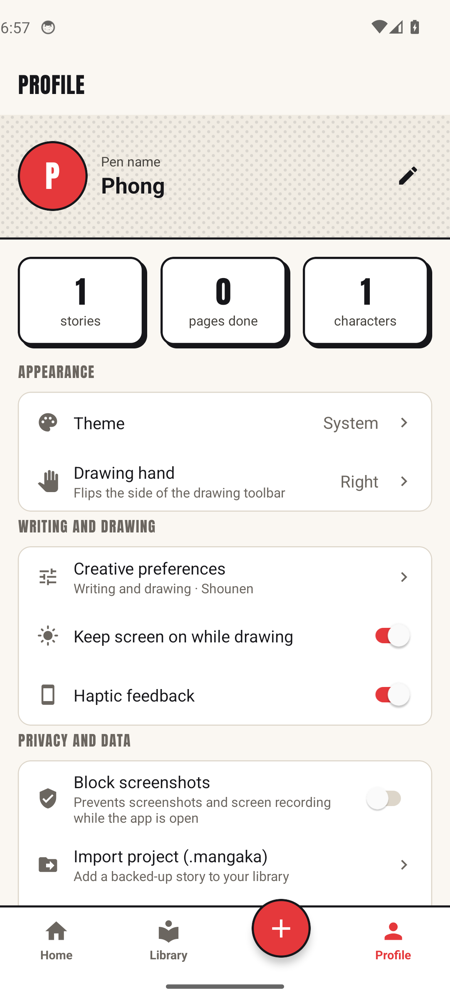
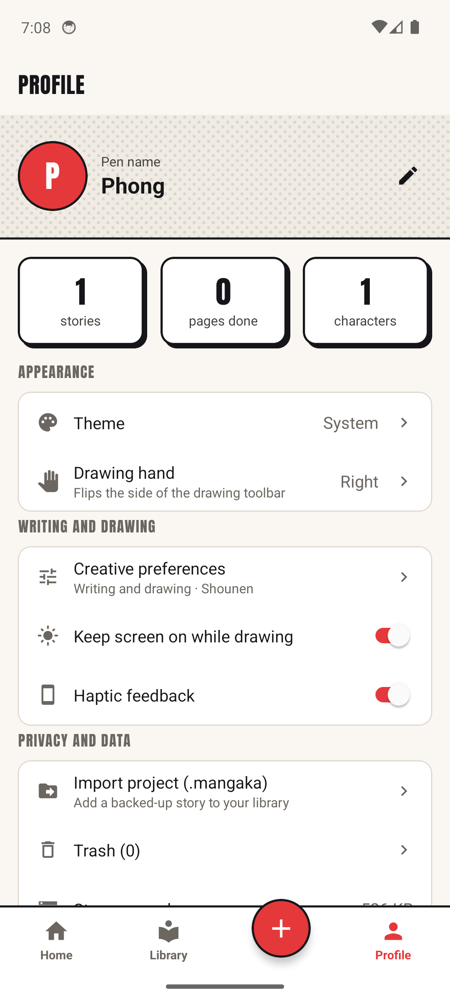
Remove the screenshot blocking toggle
Screen capture protection is no longer a setting: release builds always
enable it and dev builds never do. Docs and the Profile screenshot are
updated to match.

diff --git a/src/features/profile/ProfileScreen.tsx b/src/features/profile/ProfileScreen.tsx
@@ -13,7 +13,6 @@ import {
   Info,
   Palette,
   Pencil,
-  ShieldCheck,
   SlidersHorizontal,
   Smartphone,
   Sun,
@@ -52,7 +51,6 @@ export function ProfileScreen() {
   const handedness = useSettings(s => s.handedness);
   const keepAwake = useSettings(s => s.keepAwakeWhileDrawing);
   const haptics = useSettings(s => s.haptics);
-  const preventCapture = useSettings(s => s.preventCapture);
   const role = useSettings(s => s.role);
   const defaultStyle = useSettings(s => s.defaultStyle);
   const set = useSettings(s => s.set);
@@ -202,13 +200,6 @@ export function ProfileScreen() {
         </Section>
 
         <Section title="Privacy and data">
-          <SwitchRow
-            icon={ShieldCheck}
-            title="Block screenshots"
-            subtitle="Prevents screenshots and screen recording while the app is open"
-            value={preventCapture}
-            onValueChange={value => set({ preventCapture: value })}
-          />
           <ListItem
             icon={FolderInput}
             title={`Import project (.${ARCHIVE_EXTENSION})`}

diff --git a/src/app/AppRoot.tsx b/src/app/AppRoot.tsx
@@ -8,19 +8,13 @@ import { loadFonts } from '../engine/fonts';
 import { ensureDirs } from '../lib/files';
 import { setSecureScreen } from '../lib/screen';
 import { flushPendingWrites } from '../lib/storage';
-import { useSettings } from '../store/useSettings';
 import { useStory } from '../store/useStory';
 import { useTheme } from '../theme';
 import { RootNavigator } from './navigation';
 
 function useBootstrap() {
-  const preventCapture = useSettings(s => s.preventCapture);
-
   useEffect(() => {
-    setSecureScreen(preventCapture);
-  }, [preventCapture]);
-
-  useEffect(() => {
+    setSecureScreen(!__DEV__);
     ensureDirs().catch(() => {});
     loadFonts().catch(() => {});
     useStory.getState().purgeTrash();

diff --git a/src/store/useSettings.ts b/src/store/useSettings.ts
@@ -15,7 +15,6 @@ export type AppSettings = {
   handedness: Handedness;
   keepAwakeWhileDrawing: boolean;
   haptics: boolean;
-  preventCapture: boolean;
   onboarded: boolean;
   onboardingStep: number;
   penName: string;
@@ -33,7 +32,6 @@ export const DEFAULT_SETTINGS: AppSettings = {
   handedness: 'right',
   keepAwakeWhileDrawing: true,
   haptics: true,
-  preventCapture: !__DEV__,
   onboarded: false,
   onboardingStep: 0,
   penName: '',

diff --git a/docs/screens/f-ai-ca-nhan.md b/docs/screens/f-ai-ca-nhan.md
@@ -169,7 +169,6 @@ Quản lý tài khoản, credit và gói, cùng mọi cài đặt của app.
 │ Hỏi trước thao tác tốn nhiều credit [●━]
 │ Thông báo khi AI tạo xong [●━]│
 │ RIÊNG TƯ VÀ DỮ LIỆU           │
-│ Chống chụp màn hình      [●━] │
 │ Nhập dự án (.mangaka)        ›│
 │ Thùng rác (2)                ›│
 │ KHÁC                          │
@@ -215,8 +214,7 @@ Quản lý tài khoản, credit và gói, cùng mọi cài đặt của app.
 | AI | Hỏi trước thao tác tốn nhiều credit | Công tắc | Bật |
 | | Thông báo khi AI tạo xong | Công tắc | Bật |
 | | Ngôn ngữ AI viết | Chọn một: Theo ngôn ngữ app · Tiếng Việt · English | Theo ngôn ngữ app |
-| Riêng tư và dữ liệu | Chống chụp màn hình | Công tắc | Bật ở bản phát hành |
-| | Nhập dự án (.mangaka) | Mở trình chọn file | |
+| Riêng tư và dữ liệu | Nhập dự án (.mangaka) | Mở trình chọn file | |
 | | Thùng rác | Mở màn con; hiện số mục | |
 | | Dung lượng đã dùng | Chỉ đọc: tổng dung lượng truyện trên máy; chạm để xem theo từng truyện | |
 | Khác | Trợ giúp, Điều khoản, Chính sách riêng tư, Giới thiệu (phiên bản) | Liên kết | |
@@ -265,7 +263,6 @@ Quản lý tài khoản, credit và gói, cùng mọi cài đặt của app.
 | Đổi Chủ đề | Áp dụng ngay, chuyển màu mượt 200ms |
 | Đổi Ngôn ngữ | Áp dụng ngay, không cần khởi động lại |
 | Đổi Tay thuận | Thanh công cụ Canvas và nút trợ lý nổi đổi bên |
-| Bật/tắt Chống chụp màn hình | Áp dụng ngay cho toàn app |
 | Sửa bút danh | Lưu khi rời ô |
 | Bấm Đăng xuất | Bảng xác nhận nêu rõ "Truyện trên máy vẫn được giữ"; sau đó thẻ tài khoản thành trạng thái chưa đăng nhập |
 | Bấm Xóa tài khoản | Bảng cảnh báo 2 bước, yêu cầu gõ "XÓA"; xóa dữ liệu trên máy chủ, truyện trên máy giữ nguyên |
@@ -283,4 +280,3 @@ Màn này không gọi AI. Nó hiển thị số dư và lịch sử credit củ
 | Hết credit | Số dư màu đỏ son; dòng nhắc giờ nhận credit miễn phí tiếp theo |
 | Thanh toán thất bại hoặc bị hủy | Thông báo nhanh; số dư không đổi |
 | Lịch sử credit trống | "Bạn chưa dùng tính năng AI nào" + nút "Thử ngay" dẫn về Trang chủ |
-| Bản dev | Mục Chống chụp màn hình mặc định tắt |

diff --git a/docs/mangaka-ai.md b/docs/mangaka-ai.md
@@ -144,7 +144,7 @@ Mục tiêu: có một trợ lý hiểu cả bộ truyện, và một nơi quả
 | Màn hình | Thành phần chính | AI |
 | --- | --- | --- |
 | 19. Trợ lý AI | Khung chat biết toàn bộ truyện đang mở. Gợi ý câu hỏi nhanh. Chèn câu trả lời vào kịch bản hoặc ghi chú | Hỏi đáp về cốt truyện và nhân vật, động não, giải thích kỹ thuật vẽ manga |
-| 20. Hồ sơ và cài đặt | Tài khoản, gói và credit, giao diện sáng hoặc tối, ngôn ngữ, sao lưu và khôi phục, chống chụp màn hình | Lịch sử dùng credit theo từng loại thao tác |
+| 20. Hồ sơ và cài đặt | Tài khoản, gói và credit, giao diện sáng hoặc tối, ngôn ngữ, sao lưu và khôi phục | Lịch sử dùng credit theo từng loại thao tác |
 
 Các bảng phụ như bảng lớp, chọn màu, chọn phông chữ và mua credit là bottom sheet nằm trong màn hình cha, không tính vào 20 màn hình.
 
@@ -329,7 +329,7 @@ Chưa có gì bị xóa. Việc xóa chỉ bắt đầu sau khi tài liệu này
 | --- | --- | --- |
 | Nguồn truyện | Toàn bộ `addons/` (10 nguồn), `src/addons/`, `src/sources/` | |
 | Màn hình | Toàn bộ `src/features/`: reader, catalog, addons, library, browser, detail, novel, history, downloads, stats, verify | Ý tưởng bố cục của màn Cài đặt, viết lại theo thiết kế mới |
-| Trạng thái | `src/store/`: useStats, useHistory, useReaderSettings, progress, useDownloads, useBrowser, useSources, useFiles, useAdblock, useLibrary | `useSettings`, rút gọn còn giao diện, ngôn ngữ, chống chụp màn hình |
+| Trạng thái | `src/store/`: useStats, useHistory, useReaderSettings, progress, useDownloads, useBrowser, useSources, useFiles, useAdblock, useLibrary | `useSettings`, rút gọn còn giao diện, ngôn ngữ |
 | Thành phần | MangaCard, WebView, AddressBarParts, SideTabs, Favicon | `ui.tsx`, Sheet, Dropdown, icons, ErrorView, đổi sang phong cách mới |
 | Tiện ích | `src/lib/`: http, adblock, url, sha256, base64 | storage, id, time, format, async, screen |
 | Native Android | `NativeLibraryTasksModule.kt`, `UpdateCheckWorker.kt`, `specs/NativeLibraryTasks.ts` | `NativeScreenModule.kt` (xoay màn hình, chống chụp), `MainActivity`, `MainApplication` |

diff --git a/docs/screens/e-hoan-thien.md b/docs/screens/e-hoan-thien.md
@@ -118,7 +118,7 @@ Toàn màn hình, nền đen, ẩn thanh trạng thái. Chạm giữa màn hình
 | Trang đã gắn cờ | Biểu tượng ⚑ đỏ son ở góc trang; chạm để đọc/sửa ghi chú hoặc gỡ cờ |
 | Danh sách cờ | Bảng trượt: mọi cờ của chương theo trang; chạm để nhảy tới; nút "Gỡ tất cả" |
 | Đang chạy AI nhận xét | Bảng nhận xét mở với khung xương, chữ hiện dần; vẫn lật trang được phía sau |
-| Chống chụp màn hình bật | Màn hình này không chụp/quay được, như phần còn lại của app |
+| Bản phát hành | Màn hình này không chụp/quay được, như phần còn lại của app |
 
 ---
 
